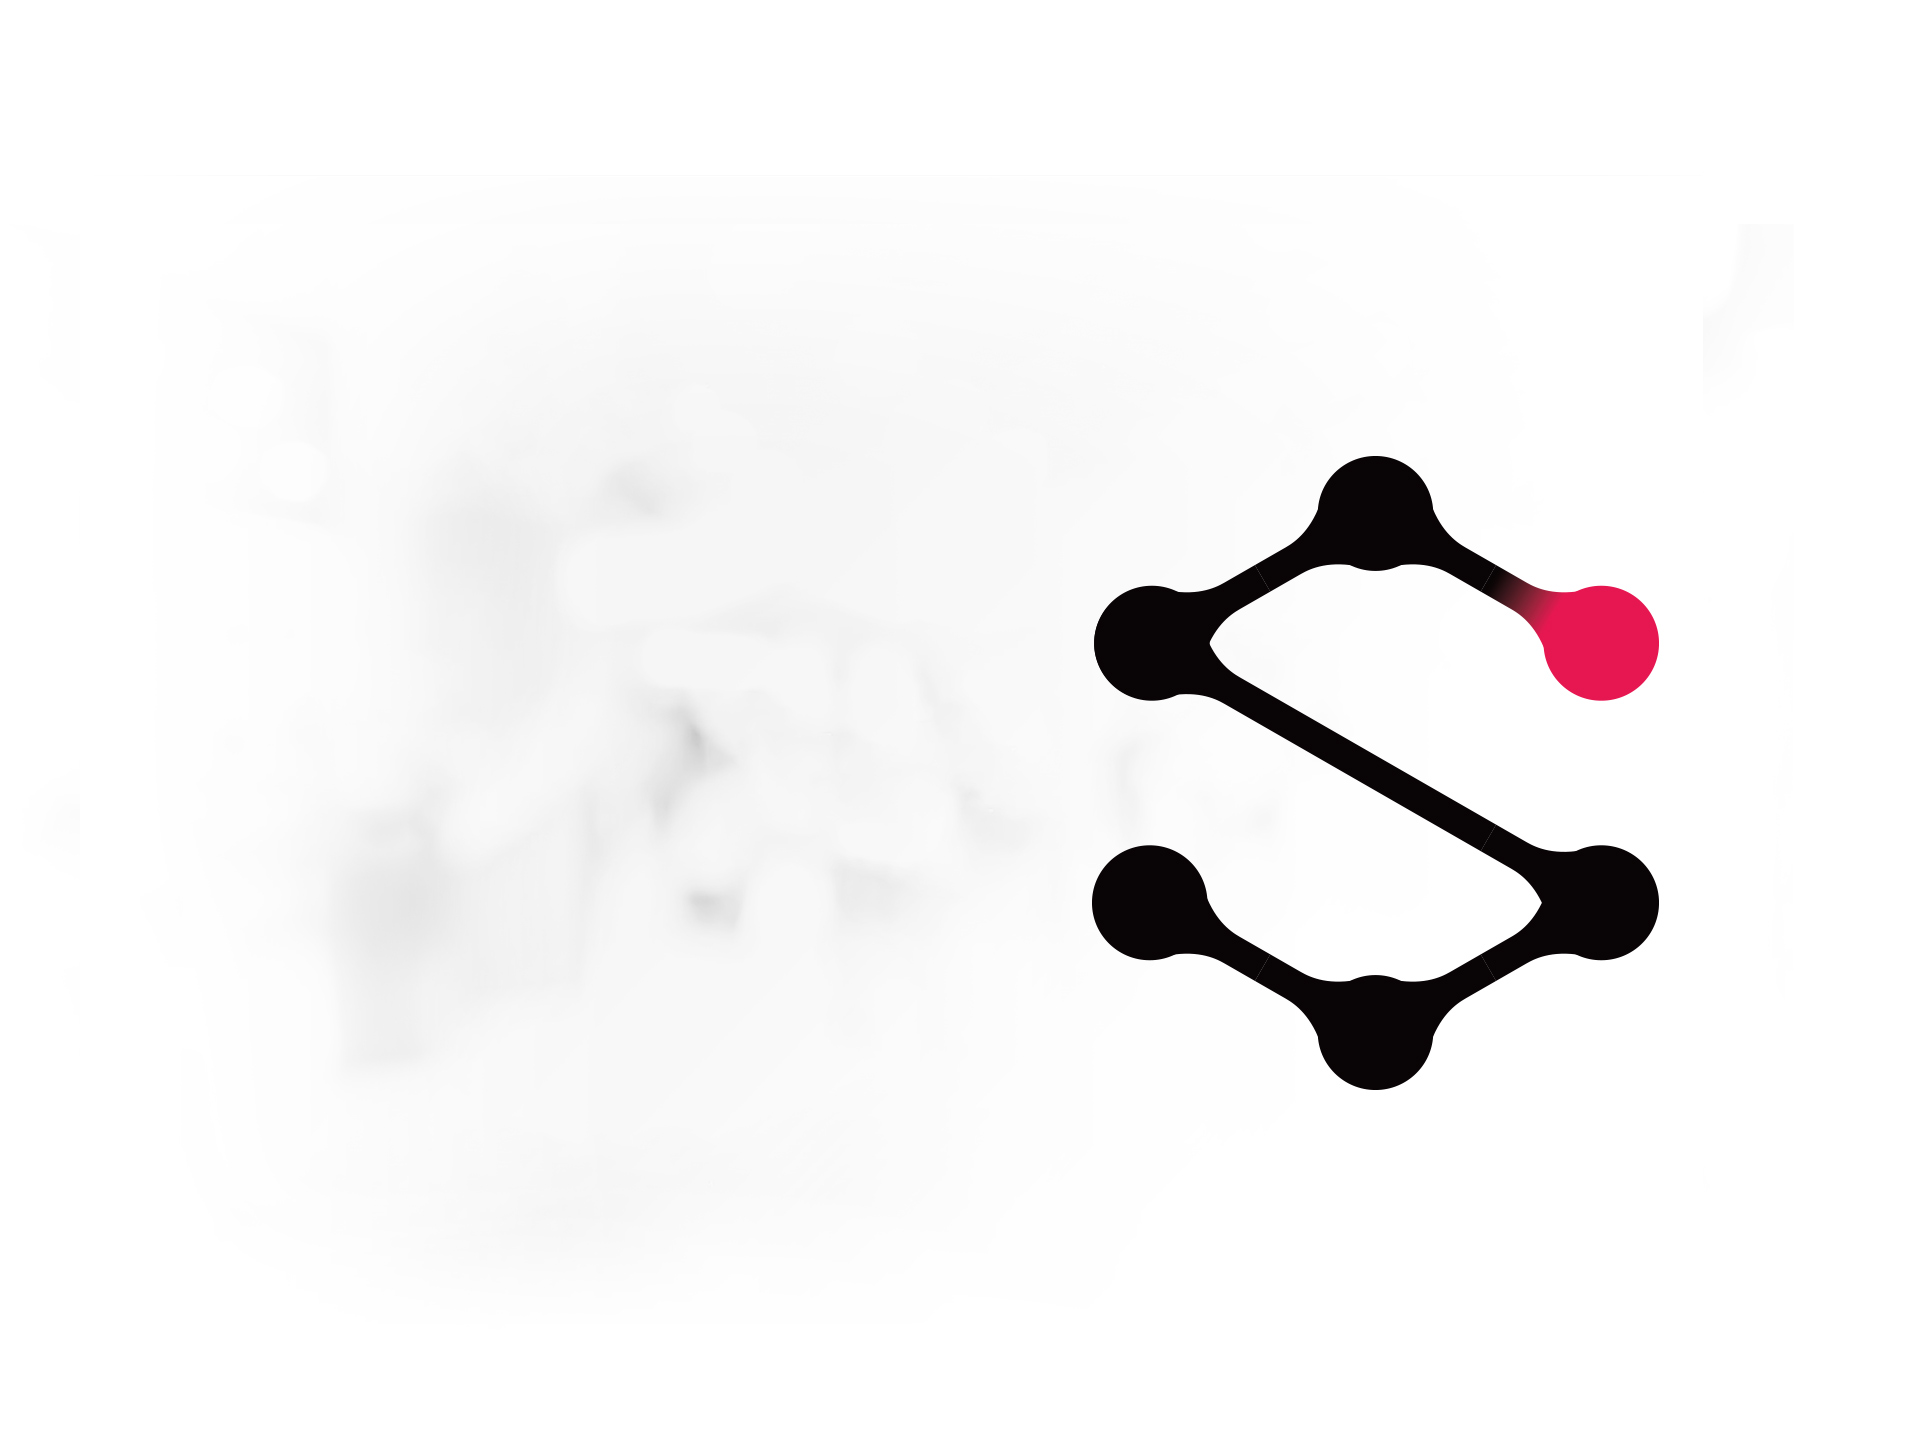
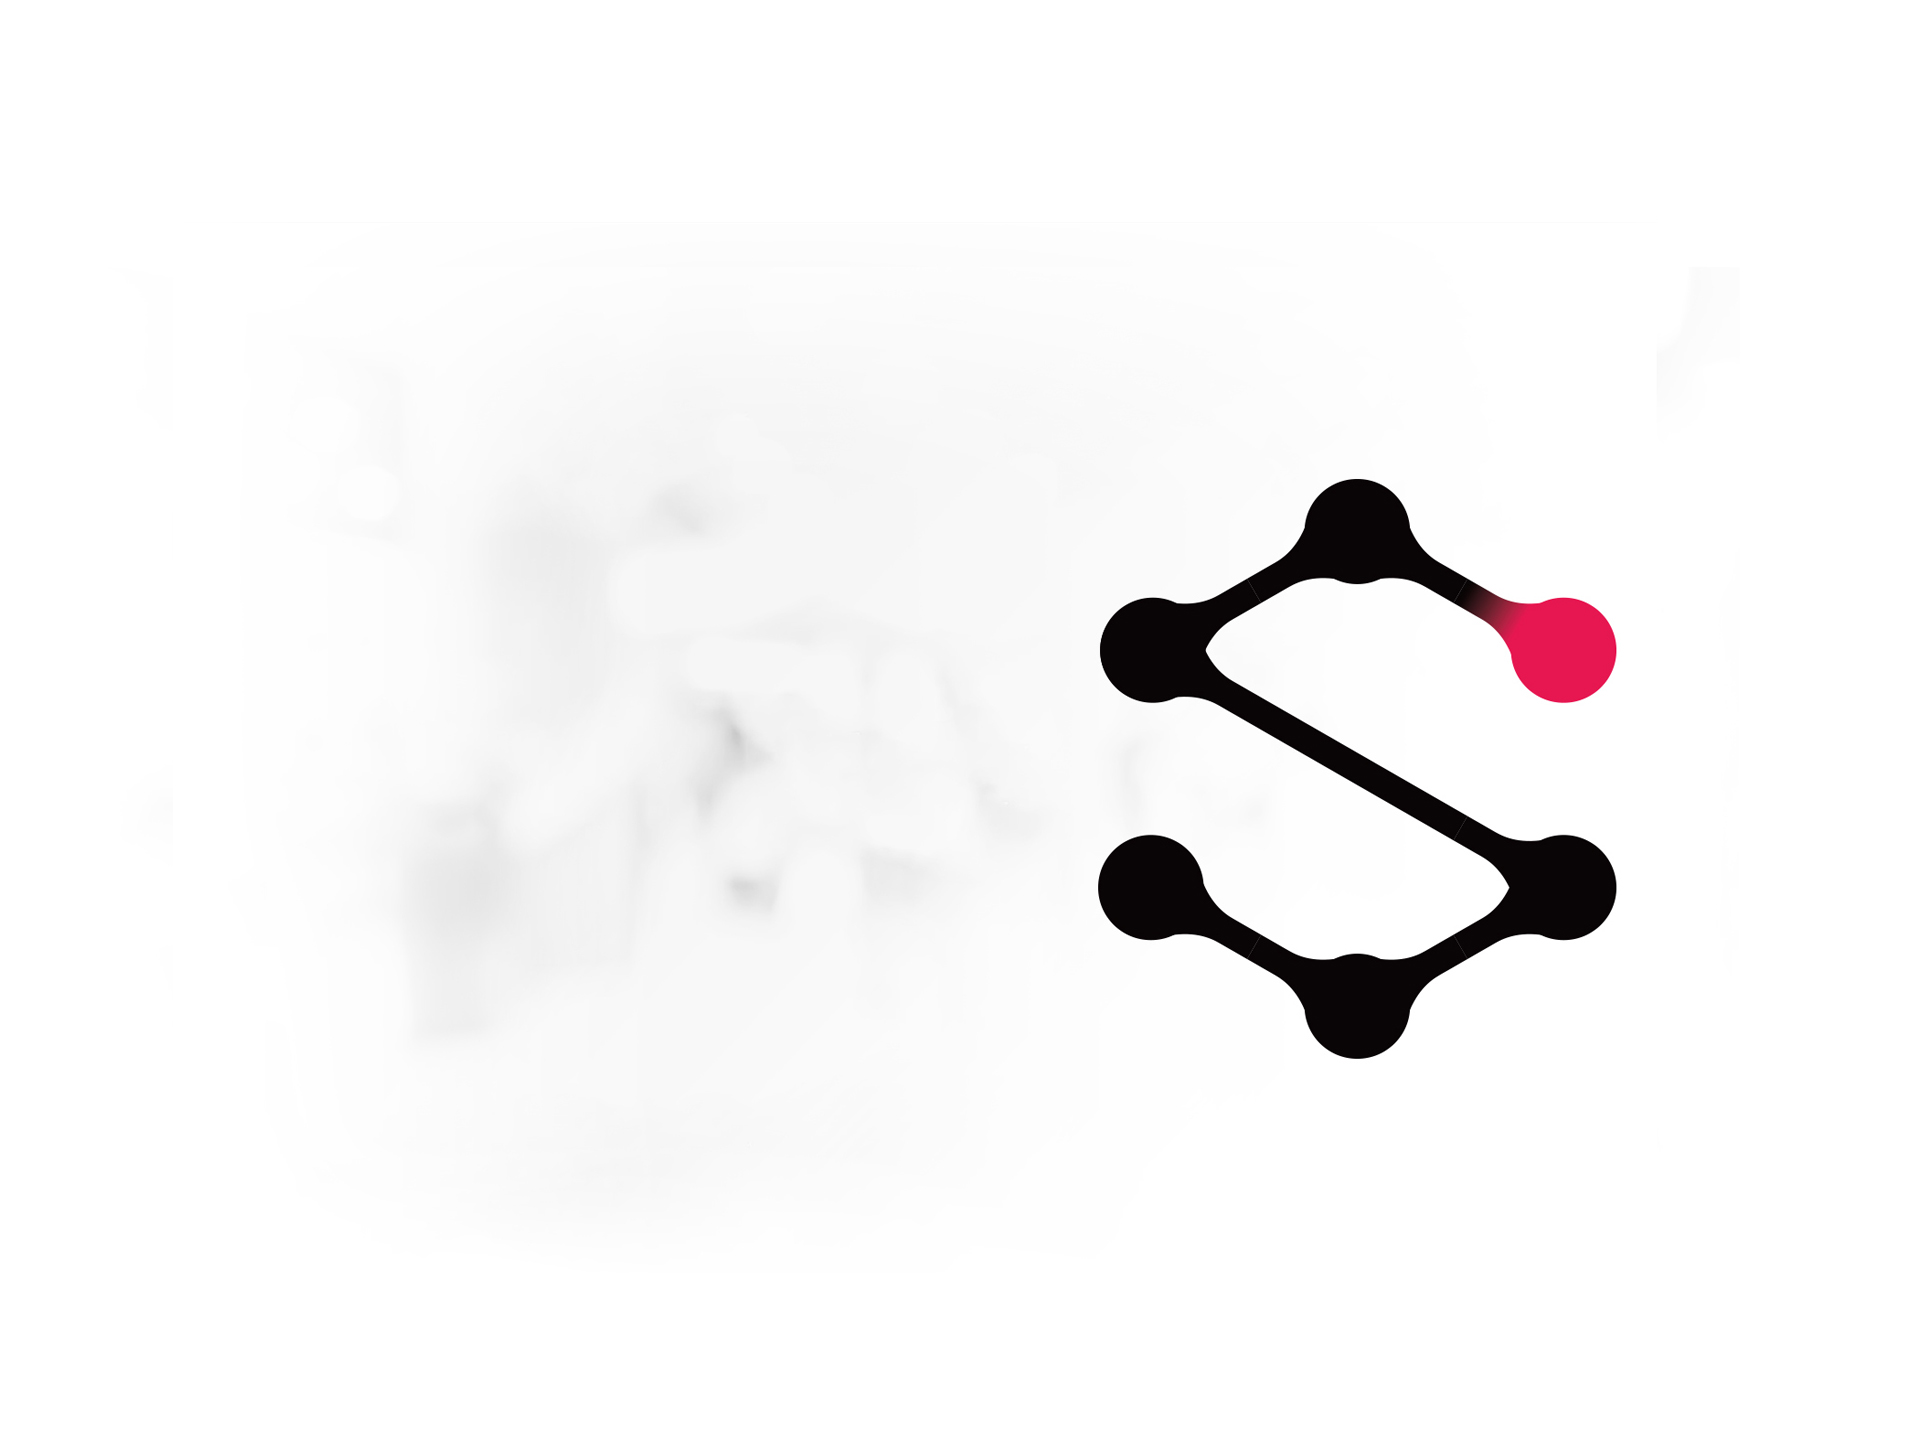
怪異動態

diff --git a/index.html b/index.html
@@ -102,6 +102,10 @@
     <!-- Portfolio -->
     <section class="portfolio text-center" id="portfolio">
         <div id="work1" class="work W100 W1120">
+            <div class="line_dots ld_01 poA"><div><span class="dot dot1 poA"></span><span class="dot dot2 poA"></span><span class="dot dot3 poA"></span><font class="line l_01 poA"></font><font class="line l_02 poA"></font></div></div>
+            <div class="line_dots ld_02 poA"><div><span class="dot dot1 poA"></span><span class="dot dot2 poA"></span><span class="dot dot3 poA"></span><font class="line l_01 poA"></font><font class="line l_02 poA"></font></div></div>
+            <div class="line_dots ld_03 poA"><div><span class="dot dot1 poA"></span><span class="dot dot2 poA"></span><span class="dot dot3 poA"></span><font class="line l_01 poA"></font><font class="line l_02 poA"></font></div></div>
+            
             <div class="svg_rock poA">
                 <img src="images/rock_pink.png" width="100%" alt="">
             </div>
@@ -164,6 +168,10 @@
             <div class="inline three_dots_wrapper poA W100"><span class="dot bg_pink"></span><span class="dot bg_pink"></span><span class="dot bg_pink"></span></div>
         </div>
         <div id="work2" class="work W100 W1120">
+            <div class="line_dots ld_04 poA"><div><span class="dot dot1 poA"></span><span class="dot dot2 poA"></span><span class="dot dot3 poA"></span><font class="line l_01 poA"></font><font class="line l_02 poA"></font></div></div>
+            <div class="line_dots ld_05 poA"><div><span class="dot dot1 poA"></span><span class="dot dot2 poA"></span><span class="dot dot3 poA"></span><font class="line l_01 poA"></font><font class="line l_02 poA"></font></div></div>
+            <div class="line_dots ld_06 poA"><div><span class="dot dot1 poA"></span><span class="dot dot2 poA"></span><span class="dot dot3 poA"></span><font class="line l_01 poA"></font><font class="line l_02 poA"></font></div></div>
+                
             <div class="svg_rock poA">
                 <img src="images/rock_black.png" width="100%" alt="">
             </div>
@@ -228,6 +236,10 @@
             <div class="inline three_dots_wrapper poA W100"><span class="dot bg_black"></span><span class="dot bg_black"></span><span class="dot bg_black"></span></div>
         </div>
         <div id="work3" class="work W100 W1120">
+            <div class="line_dots ld_01 poA"><div><span class="dot dot1 poA"></span><span class="dot dot2 poA"></span><span class="dot dot3 poA"></span><font class="line l_01 poA"></font><font class="line l_02 poA"></font></div></div>
+            <div class="line_dots ld_02 poA"><div><span class="dot dot1 poA"></span><span class="dot dot2 poA"></span><span class="dot dot3 poA"></span><font class="line l_01 poA"></font><font class="line l_02 poA"></font></div></div>
+            <div class="line_dots ld_03 poA"><div><span class="dot dot1 poA"></span><span class="dot dot2 poA"></span><span class="dot dot3 poA"></span><font class="line l_01 poA"></font><font class="line l_02 poA"></font></div></div>
+                
             <div class="svg_rock poA">
                 <img src="images/rock_pink.png" width="100%" alt="">
             </div>
@@ -290,6 +302,10 @@
             <div class="inline three_dots_wrapper poA W100"><span class="dot bg_pink"></span><span class="dot bg_pink"></span><span class="dot bg_pink"></span></div>
         </div>
         <div id="work4" class="work W100 W1120">
+            <div class="line_dots ld_04 poA"><div><span class="dot dot1 poA"></span><span class="dot dot2 poA"></span><span class="dot dot3 poA"></span><font class="line l_01 poA"></font><font class="line l_02 poA"></font></div></div>
+            <div class="line_dots ld_05 poA"><div><span class="dot dot1 poA"></span><span class="dot dot2 poA"></span><span class="dot dot3 poA"></span><font class="line l_01 poA"></font><font class="line l_02 poA"></font></div></div>
+            <div class="line_dots ld_06 poA"><div><span class="dot dot1 poA"></span><span class="dot dot2 poA"></span><span class="dot dot3 poA"></span><font class="line l_01 poA"></font><font class="line l_02 poA"></font></div></div>
+                   
             <div class="svg_rock poA">
                 <img src="images/rock_black.png" width="100%" alt="">
             </div>

diff --git a/css/style.css b/css/style.css
@@ -4118,10 +4118,138 @@ a.filtr-item {
     margin: 0;
 }
 
+.line_dots {
+    width: 60px;
+    height: 45px;
+    opacity: .3;
+    animation: lineAni 12s ease infinite;
+    transform-origin: left top;
+}
+
+.line_dots span{
+    width: 3px;
+    height: 3px;
+    background-color: #000;
+    margin: 0;
+}
+
+.line_dots font{
+    background-color: #000;
+    display: block;
+    width: 60px;
+    height: 1px;
+    
+}
+
+.line_dots font.l_01{
+    height: 37px;
+    width: 1px;
+    transform: rotate(-40deg);
+    transform-origin: left top;
+}
+
+span.dot.dot1.poA {
+    top: -1px;
+    left: -1px;
+}
+
+span.dot.dot2.poA {
+    left: 60px;
+    top: -1px;
+}
+
+span.dot.dot3.poA {
+    top: 28px;
+    left: 24px;
+}
+
+.ld_01 {
+    top: -9%;
+    left: -15px;
+}
+
+
+.ld_02 {
+    top: 14%;
+    left: 90%;
+}
+
+.ld_03 {
+    top: 70%;
+    left: 30%;
+}
+
+.ld_04 {
+    top: -12%;
+    left: 47%;
+}
+
+.ld_05 {
+    top: 20%;
+    left: 17%;
+}
+
+.ld_06 {
+    top: 90%;
+    left: 75%;
+}
+
+.ld_01>div {
+    transform: rotate(200deg);
+}
+.ld_02>div {
+    transform: rotate(112deg);
+}
+.ld_03>div {
+    transform: rotate(348deg);
+}
+.ld_04>div {
+    transform: rotate(-46deg);
+}
+.ld_05>div {
+    transform: rotate(130deg);
+}
+.ld_06>div {
+    transform: rotate(205deg);
+}
+
 #work1 {
     background-image: url(../images/tilte_04.png);
 }
 
+.svg_rock {
+    animation: float 6s ease-in-out infinite;
+}
+
+@keyframes float {
+  0% {
+      transform: translatey(0px);
+  }
+  50% {
+      transform: translatey(-25px);
+  }
+  100% {
+      transform: translatey(0px);
+  }
+}
+
+@keyframes lineAni {
+    0% {
+        transform: translatey(0px);
+        opacity: .1;
+    }
+    50% {
+        transform: translatey(25px);
+        opacity: .3;
+        
+    }
+    100% {
+        transform: translatey(0px);
+        opacity: .1;
+        
+    }
+  
+}
 #work1 .svg_rock,
 #work3 .svg_rock {
     left: -3%;

diff --git a/css/assets/responsive.css b/css/assets/responsive.css
@@ -7,6 +7,16 @@
 	}
 }
 @media only screen and (max-width: 767px) {
+	.three_dots_wrapper {
+		bottom: -70px;
+	}
+	.work {
+		margin: 70px 0 140px;
+	}
+	.svg_rock{
+		max-width: 70px;
+		margin-top: -50px;
+	}
 	.navbar {
 	    background-color: rgba(255, 255, 255, 0.9);
 	}
